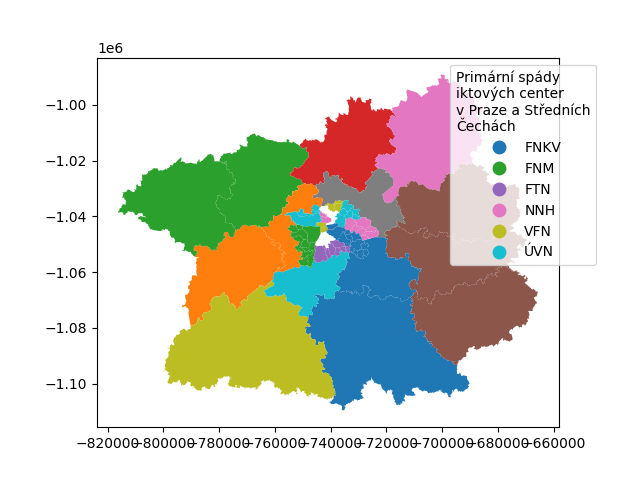
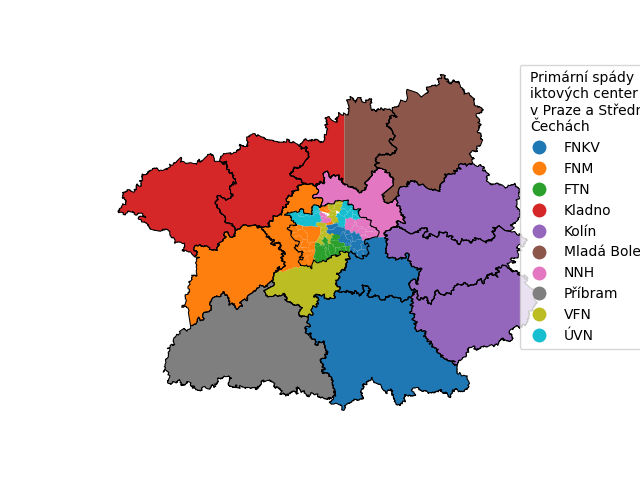
suburbs added, boundaries added, Melnik divided

diff --git a/spady.py b/spady.py
@@ -31,6 +31,10 @@ def changeName( name ):
         name = name.replace(old, new)
     return name
 
+def suburban_Praha( name ):
+    if name in [ 'Libeň', 'Kobylisy',  'Čimice', 'Bohnice', 'Karlín', 'Michle', 'Nusle', 'Podolí', 'Braník','Hodkovičky', 'Krč', 'Lhotka', 'Záběhlice' ]: return True
+    else: return False
+
 # Use file from https://geoportal.cuzk.cz/Default.aspx?mode=TextMeta&side=dsady_RUIAN&metadataID=CZ-CUZK-SH-V&mapid=5&menu=252
 geo_df = gpd.read_file('JTSK/SPH_OKRES.shp')
 geo_df = geo_df.head(13)
@@ -40,11 +44,13 @@ dist = 100_000
 # Use file from https://geoportal.cuzk.cz/Default.aspx?mode=TextMeta&side=mapy_data200&metadataID=CZ-CUZK-DATA200-VODSTVO-V&head_tab=sekce-02-gp&menu=2292
 reky   = gpd.read_file('HYDRO/WatrcrsL.shp')
 berounka = reky.loc[ reky['NAMN1'] == 'Berounka' ].reset_index(drop = True)
+crs = {'init': 'epsg:5514'}
+berounka.crs = crs
 
 lgd_kwds = {
         'title': 'Primární spády\niktových center\nv Praze a Středních\nČechách',
         'loc': 'upper left',
-        'bbox_to_anchor': (0.75, 1.00),
+        'bbox_to_anchor': (0.9, 1.00),
         'ncol': 1
         }
 
@@ -52,6 +58,10 @@ mc = gpd.read_file('JTSK/SPH_MC.shp')
 mc['praha'] = mc['NAZEV_MC'].apply(lambda x: 'Praha' in x)
 praha = mc.loc[ mc['praha'] ]
 praha['NAZEV_MC'] = praha['NAZEV_MC'].apply(lambda x: x.replace("Praha-", "") )
+
+sub_praha = gpd.read_file('JTSK/SPH_KU.shp')
+sub_praha['suburban'] = sub_praha['NAZEV_KU'].apply(suburban_Praha)
+sub_praha = sub_praha.loc[ sub_praha['suburban'] ].reset_index( drop = True )
 
 query = """SELECT ?okres ?okresLabel ?coordinates ?nemocnice ?population {
   VALUES (?okres ?nemocnice) {
@@ -156,7 +166,8 @@ query = """SELECT ?okres ?okresLabel ?coordinates ?nemocnice ?population {
 
     (wd:Q837635 "Kladno") #Kladno
     (wd:Q338296 "Kladno") #Kladno
-    (wd:Q852463 "Kladno/ Mladá Boleslav") #Mělník
+    (wd:Q852463 "Kladno/Mladá Boleslav") #okres Mělník
+    (wd:Q320939 "Mladá Boleslav") #město Mělník
     (wd:Q852468 "Mladá Boleslav") #Mladá Boleslav
     (wd:Q852491 "Kolín") #Nymburk
     (wd:Q847318 "Kolín") #Kolín
@@ -179,7 +190,29 @@ df['coord'] = df['coordinates'].apply( lambda c: getCoord.search(c).groups() )
 df['lon'] = [ float(coord[0]) for coord in df['coord'] ]
 df['lat'] = [ float(coord[1]) for coord in df['coord'] ]
 df['NAZEV_MC'] = df['okresLabel'].apply(changeName)
+melnik = df.loc[ df['okresLabel'] == 'Mělník' ].reset_index( drop = True )
+df = df.loc[ df['okresLabel'] != 'Mělník' ]
 df['okres'] = df['okresLabel'].apply(lambda x: 'okres' in x)
+
+melnik['geometry'] = melnik[['lon', 'lat']].apply( lambda row: wgs84_to_Point(row['lon'], row['lat'] ), axis = 1)
+melnik = gpd.GeoDataFrame(melnik, geometry = 'geometry')
+p0 = melnik['geometry'].values[0]
+melnik_polygon = Polygon([
+    (p0.x + 0*dist, p0.y + 1*dist),
+    (p0.x + 1*dist, p0.y + 1*dist),
+    (p0.x + 1*dist, p0.y - 1*dist),
+    (p0.x + 0*dist, p0.y - 1*dist),
+    ])
+melnik_box = gpd.GeoSeries([melnik_polygon])
+okres_melnik = geo_df.loc[ geo_df['NAZEV_LAU1'] == 'Mělník' ].reset_index( drop = True )
+okres_melnik_zapad = okres_melnik.copy()
+okres_melnik_zapad['geometry'] = okres_melnik.difference(melnik_box)
+okres_melnik_zapad['NAZEV_LAU1'] = 'Mělník (západ)'
+okres_melnik_zapad['nemocnice'] = 'Kladno'
+okres_melnik_vychod = okres_melnik.copy()
+okres_melnik_vychod['geometry'] = okres_melnik.intersection(melnik_box)
+okres_melnik_vychod['NAZEV_LAU1'] = 'Mělník (východ)'
+okres_melnik_vychod['nemocnice'] = 'Mladá Boleslav'
 
 uvaly = df.loc[ df['okresLabel'] == 'Úvaly' ]
 uvaly['geometry'] = uvaly[['lon', 'lat']].apply( lambda row: wgs84_to_Point(row['lon'], row['lat'] ), axis=1)
@@ -203,6 +236,7 @@ praha_vychod_jih['NAZEV_LAU1'] = 'Praha-východ (jih)'
 praha_vychod_jih['nemocnice'] = 'FNKV'
 
 praha_zapad = geo_df.loc[ geo_df['NAZEV_LAU1'] == 'Praha-západ'].reset_index(drop = True )
+praha_zapad.crs = crs
 berounka_intersect = gpd.sjoin( berounka, praha_zapad, op='intersects').reset_index(drop = True )
 berounka_x, berounka_y = [], []
 for i in [ 7, 8, 4, 5, 6, 2, 1, 0, 3 ]:
@@ -221,11 +255,21 @@ praha_zapad_jih['geometry'] = praha_zapad.intersection(berounka_box)
 praha_zapad_jih['NAZEV_LAU1'] = 'Praha-západ (jih)'
 praha_zapad_jih['nemocnice'] = 'VFN'
 
-okresy = df.loc[ df['okres'] ]
-okresy['NAZEV_LAU1'] = okresy['okresLabel'].apply(lambda x: x.replace("okres ", "") )
-okresym = geo_df.merge(okresy, on='NAZEV_LAU1')
+#okresy = df.loc[ df['okres'] ]
+#okresy['NAZEV_LAU1'] = okresy['okresLabel'].apply(lambda x: x.replace("okres ", "") )
+#okresym = geo_df.merge(okresy, on='NAZEV_LAU1')
+df['NAZEV_LAU1'] = df['okresLabel'].apply(lambda x: x.replace("okres ", "") )
+okresym = geo_df.merge(df, on='NAZEV_LAU1')
+
+df['NAZEV_KU'] = df['okresLabel']
+suburbs = sub_praha.merge(df, on='NAZEV_KU')
+
+ax = okresym.boundary.plot(color = 'black', linewidth = 0.75, alpha = 1)
+
 okresym = pd.concat( [
-    okresym.loc[ (okresym['NAZEV_LAU1'] != 'Praha-východ') & (okresym['NAZEV_LAU1'] != 'Praha-západ') ],
+    okresym.loc[ (okresym['NAZEV_LAU1'] != 'Praha-východ') & (okresym['NAZEV_LAU1'] != 'Praha-západ') & (okresym['NAZEV_LAU1'] != 'Mělník') ],
+    okres_melnik_zapad,
+    okres_melnik_vychod,
     praha_vychod_sever,
     praha_vychod_jih,
     praha_zapad_sever,
@@ -233,7 +277,16 @@ okresym = pd.concat( [
     ])
 praham = praha.merge(df, on='NAZEV_MC', how='left')
 
-ax = okresym.plot(column = 'nemocnice', legend = True, legend_kwds = lgd_kwds )
-praham.plot(ax = ax, column = 'nemocnice', legend = True, legend_kwds = lgd_kwds )
+pd.concat([
+    okresym[['nemocnice', 'geometry']],
+    praham[['nemocnice', 'geometry']],
+    suburbs[['nemocnice', 'geometry']],
+    ]).plot(
+            column = 'nemocnice',
+            legend = True,
+            legend_kwds = lgd_kwds,
+            ax = ax
+            )
+ax.set_axis_off()
 plt.savefig('spady.png')
 plt.show()
